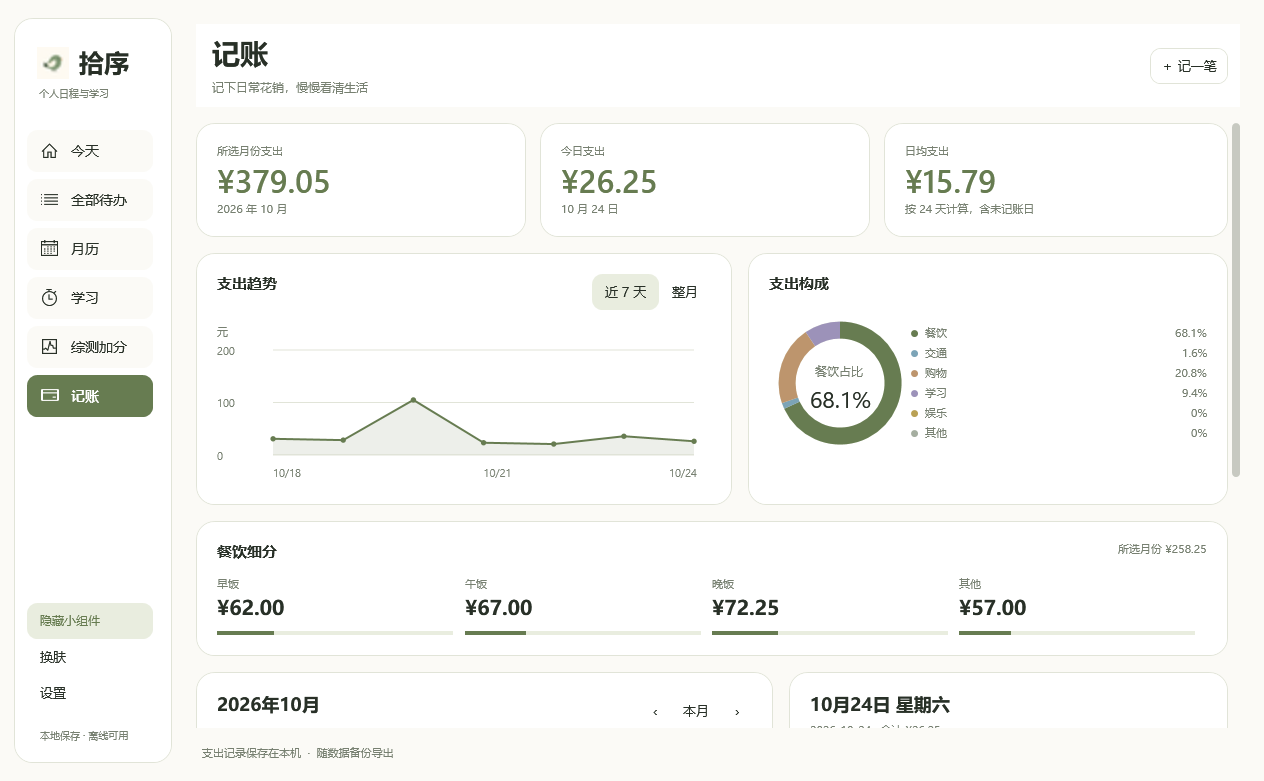
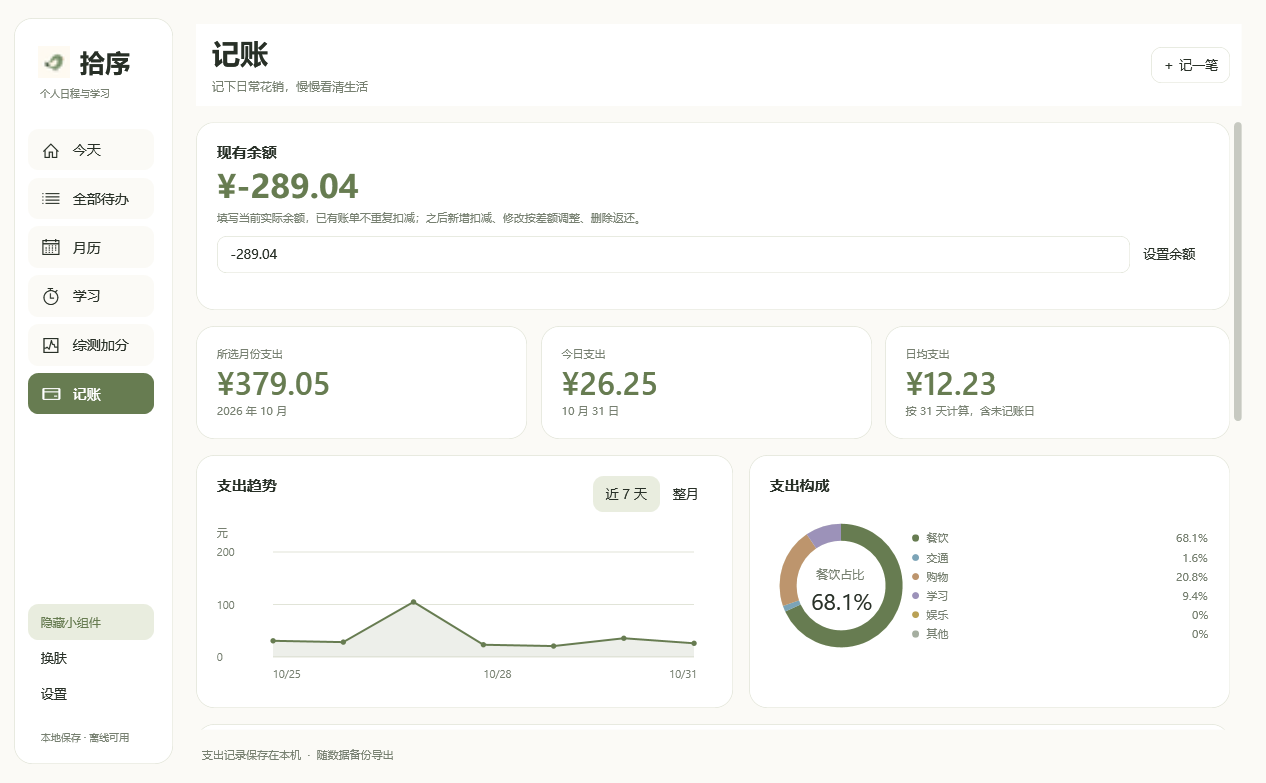
feat: add current balance with automatic expense deductions

diff --git a/src/CoreTests.cs b/src/CoreTests.cs
@@ -16,6 +16,7 @@ class CoreTests
         Directory.CreateDirectory(root);
         try
         {
+            Check(typeof(TodoState).GetField("ExpenseBalanceBase") != null, "state persists balance baseline");
             Check(typeof(TodoState).GetField("Expenses") != null, "state exposes independent expense records");
             Check(typeof(ExpenseRecord).GetField("Meal") != null, "expenses support meal subtype");
             Check(typeof(CreditRecord).Assembly.GetType("DeskTodo.CreditSummary") != null, "credits expose calendar and accumulation summary");
@@ -59,13 +60,21 @@ class CoreTests
                 using (var mealMoved = mealStore.MoveTo(Path.Combine(root, "meal-moved"))) Check(mealMoved.State.Expenses[0].Meal == "午饭", "meal subtype preserved by migration");
                 string savedMeal = File.ReadAllText(Path.Combine(mealStore.DirectoryPath, "tasks.json")); Throws(() => mealStore.ChangeState(state => state.Expenses[0].Meal = "bad"), "invalid meal transaction fails");
                 Check(mealStore.State.Expenses[0].Meal == "午饭" && File.ReadAllText(Path.Combine(mealStore.DirectoryPath, "tasks.json")) == savedMeal, "invalid meal transaction preserves memory and disk");
-                string legacyMeal = Path.Combine(root, "legacy-meal.json"); File.WriteAllText(legacyMeal, savedMeal.Replace("\"Version\":10", "\"Version\":9").Replace(",\"Meal\":\"午饭\"", ""));
+                string legacyMeal = Path.Combine(root, "legacy-meal.json"); File.WriteAllText(legacyMeal, savedMeal.Replace("\"Version\":11", "\"Version\":9").Replace(",\"Meal\":\"午饭\"", ""));
                 var legacyMealState = DataStore.ReadState(legacyMeal); Check(legacyMealState.Version == 9 && legacyMealState.Expenses[0].Meal == null && ExpenseSummary.Create(legacyMealState.Expenses, new DateTime(2024, 2, 1), DateTime.Today).ByMeal["其他"] == 18.6m, "v9 dining remains other without guessing");
             }
             var expenses = new TodoState();
             expenses.Expenses.Add(new ExpenseRecord { Id = Guid.NewGuid().ToString("N"), Date = "2026-10-24", Amount = 0.1m, Category = "餐饮", Note = "示例" });
             expenses.Expenses.Add(new ExpenseRecord { Id = Guid.NewGuid().ToString("N"), Date = "2026-10-24", Amount = 0.2m, Category = "其他" });
             expenses.Validate(); Check(expenses.Expenses.Sum(e => e.Amount) == 0.3m, "expense decimal totals exact");
+            Check(!expenses.ExpenseBalance.HasValue, "legacy balance stays unset");
+            expenses.SetExpenseBalance(100m); Check(expenses.ExpenseBalance == 100m, "setting current balance does not deduct old expenses");
+            var balanceCopy = expenses.Copy(); balanceCopy.Expenses[0].Amount = 1.1m; Check(balanceCopy.ExpenseBalance == 99m, "editing expense adjusts balance by difference");
+            balanceCopy.Expenses.RemoveAt(0); Check(balanceCopy.ExpenseBalance == 100.1m, "deleting expense refunds balance");
+            balanceCopy.SetExpenseBalance(0m); balanceCopy.Expenses[0].Amount = 1.2m; Check(balanceCopy.ExpenseBalance == -1m, "overspending permits negative balance");
+            Throws(() => expenses.SetExpenseBalance(.001m), "balance rejects fractions of cents");
+            Throws(() => expenses.SetExpenseBalance(1000000000000m), "balance rejects out of range");
+            Check(expenses.Copy().ExpenseBalance == 100m, "copy preserves balance baseline");
             var expenseCopy = expenses.Copy(); expenseCopy.Expenses[0].Note = "副本";
             Check(expenses.Expenses[0].Note == "示例", "expense snapshots deep copied");
             foreach (decimal invalid in new[] { 0m, -1m, .001m, 100000000m }) { expenseCopy.Expenses[0].Amount = invalid; Throws(() => expenseCopy.Validate(), "invalid expense amount rejected " + invalid); }
@@ -82,7 +91,7 @@ class CoreTests
             Check(DataStore.ReadState(legacyExpenses).Expenses.Count == 0, "v8 defaults to empty expense list");
             using (var expenseStore = DataStore.Open(Path.Combine(root, "expenses")))
             {
-                expenseStore.ChangeState(state => state.Expenses = expenses.Expenses.Select(e => e.Copy()).ToList());
+                expenseStore.ChangeState(state => { state.Expenses = expenses.Expenses.Select(e => e.Copy()).ToList(); state.SetExpenseBalance(100m); });
                 expenseStore.Change(items => items.Add(Item("普通待办", null)));
                 Check(expenseStore.State.Expenses.Count == 2, "todo mutation preserves expenses");
                 string saved = File.ReadAllText(Path.Combine(expenseStore.DirectoryPath, "tasks.json"));
@@ -90,7 +99,8 @@ class CoreTests
                 Check(File.ReadAllText(Path.Combine(expenseStore.DirectoryPath, "tasks.json")) == saved && expenseStore.State.Expenses[0].Amount == .1m, "failed expense save preserves memory and disk");
                 string expenseExport = Path.Combine(root, "expenses-export.json"); expenseStore.Export(expenseExport);
                 expenseStore.ChangeState(state => state.Expenses.Clear()); expenseStore.Import(expenseExport);
-                Check(expenseStore.State.Expenses.Count == 2 && expenseStore.State.Version == 10, "expense backup import restores v10 records");
+                Check(expenseStore.State.ExpenseBalance == 100m, "export and import preserve balance");
+                Check(expenseStore.State.Expenses.Count == 2 && expenseStore.State.Version == 11, "expense backup import restores v10 records");
                 using (var expenseMoved = expenseStore.MoveTo(Path.Combine(root, "expenses-moved"))) Check(expenseMoved.State.Expenses.Sum(e => e.Amount) == .3m, "data migration preserves expenses");
             }
             var credits = new TodoState();
@@ -134,7 +144,7 @@ class CoreTests
                 creditStore.Change(items => items.Add(Item("普通待办", null)));
                 string creditExport = Path.Combine(root, "credits-export.json"); creditStore.Export(creditExport);
                 var creditRestored = DataStore.ReadState(creditExport);
-                Check(creditRestored.Version == 10 && creditRestored.Credits.Sum(c => c.Points) == 0.3m && creditRestored.Items.Count == 1, "todo saves and exports preserve credits");
+                Check(creditRestored.Version == 11 && creditRestored.Credits.Sum(c => c.Points) == 0.3m && creditRestored.Items.Count == 1, "todo saves and exports preserve credits");
                 creditStore.ChangeState(state => state.Credits.Clear()); creditStore.Import(creditExport);
                 Check(creditStore.State.Credits.Count == 2, "import replaces and restores credits");
                 Throws(() => creditStore.ChangeState(state => state.Credits[0].Points = -1), "invalid credit save fails atomically");
@@ -305,10 +315,10 @@ class CoreTests
                 timedStore.Import(timedPath);
                 string timedExport = Path.Combine(root, "时间地点备份.json"); timedStore.Export(timedExport);
                 var roundtrip = DataStore.ReadState(timedExport);
-                Check(roundtrip.Version == 10 && roundtrip.Items[0].Time == "14:35" && roundtrip.Items[0].Location == "会议室 A", "time location backup roundtrip and new format");
+                Check(roundtrip.Version == 11 && roundtrip.Items[0].Time == "14:35" && roundtrip.Items[0].Location == "会议室 A", "time location backup roundtrip and new format");
                 JsonFile.Write(timedPath, legacyState);
                 timedStore.Import(timedPath);
-                Check(DataStore.ReadState(Path.Combine(timedStore.DirectoryPath, "tasks.json")).Version == 10, "saving legacy data upgrades format without losing records");
+                Check(DataStore.ReadState(Path.Combine(timedStore.DirectoryPath, "tasks.json")).Version == 11, "saving legacy data upgrades format without losing records");
             }
             Check(Dates.GridStart(new DateTime(2026, 10, 1)) == new DateTime(2026, 9, 28), "October Monday-first grid");
             Check(Dates.GridStart(new DateTime(2027, 1, 1)) == new DateTime(2026, 12, 28), "calendar crosses year");

diff --git a/src/Core.cs b/src/Core.cs
@@ -51,7 +51,14 @@ namespace DeskTodo
     [DataContract]
     public class TodoState
     {
-        [DataMember(IsRequired = true)] public int Version = 10;
+        [DataMember(IsRequired = true)] public int Version = 11;
+        [DataMember(EmitDefaultValue = false)] public decimal? ExpenseBalanceBase;
+        public decimal? ExpenseBalance { get { return ExpenseBalanceBase.HasValue ? ExpenseBalanceBase.Value - Expenses.Sum(e => e.Amount) : (decimal?)null; } }
+        public void SetExpenseBalance(decimal amount)
+        {
+            if (Math.Abs(amount) > 999999999999.99m || Decimal.Round(amount, 2) != amount) throw new InvalidDataException("余额最多两位小数，绝对值不能超过999999999999.99元。");
+            ExpenseBalanceBase = amount + Expenses.Sum(e => e.Amount);
+        }
         [DataMember] public List<ExpenseRecord> Expenses = new List<ExpenseRecord>();
         [DataMember] public List<CreditRecord> Credits = new List<CreditRecord>();
         [DataMember] public int DailyGoalMinutes;
@@ -60,11 +67,12 @@ namespace DeskTodo
         [DataMember] public List<FocusSession> FocusHistory = new List<FocusSession>();
         [DataMember(EmitDefaultValue = false)] public FocusSession ActiveFocus;
         [OnDeserializing] void Defaults(StreamingContext c) { Series = new List<RepeatSeries>(); FocusHistory = new List<FocusSession>(); Credits = new List<CreditRecord>(); Expenses = new List<ExpenseRecord>(); }
-        public TodoState Copy() { return new TodoState { Expenses = Expenses.Select(e => e.Copy()).ToList(), Credits = Credits.Select(c => c.Copy()).ToList(), DailyGoalMinutes = DailyGoalMinutes, Items = Items.Select(i => i.Copy()).ToList(), Series = Series.Select(s => s.Copy()).ToList(), FocusHistory = FocusHistory.Select(f => f.Copy()).ToList(), ActiveFocus = ActiveFocus == null ? null : ActiveFocus.Copy() }; }
+        public TodoState Copy() { return new TodoState { ExpenseBalanceBase = ExpenseBalanceBase, Expenses = Expenses.Select(e => e.Copy()).ToList(), Credits = Credits.Select(c => c.Copy()).ToList(), DailyGoalMinutes = DailyGoalMinutes, Items = Items.Select(i => i.Copy()).ToList(), Series = Series.Select(s => s.Copy()).ToList(), FocusHistory = FocusHistory.Select(f => f.Copy()).ToList(), ActiveFocus = ActiveFocus == null ? null : ActiveFocus.Copy() }; }
         public void Validate()
         {
-            if (Version < 1 || Version > 10) throw new InvalidDataException("不支持这个数据版本，请使用对应版本的软件。");
+            if (Version < 1 || Version > 11) throw new InvalidDataException("不支持这个数据版本，请使用对应版本的软件。");
             if (Expenses == null || Expenses.Count > 10000) throw new InvalidDataException("记账记录无效或超过 10000 笔。");
+            if (ExpenseBalanceBase.HasValue && (ExpenseBalanceBase.Value < -999999999999.99m || ExpenseBalanceBase.Value > 1999999999999.99m || Decimal.Round(ExpenseBalanceBase.Value, 2) != ExpenseBalanceBase.Value)) throw new InvalidDataException("余额数据无效。");
             var expenseIds = new HashSet<string>();
             foreach (var expense in Expenses) { if (expense == null || !expenseIds.Add(expense.Id)) throw new InvalidDataException("记账记录重复或无效。"); expense.Validate(); }
             if (Credits == null || Credits.Count > 10000) throw new InvalidDataException("综测记录无效或超过 10000 条。");
@@ -512,7 +520,7 @@ namespace DeskTodo
         void Commit(TodoState next)
         {
             if (lease == null) throw new ObjectDisposedException("DataStore");
-            next.Validate(); next.Version = 10; JsonFile.Write(FilePath, next); State = next;
+            next.Validate(); next.Version = 11; JsonFile.Write(FilePath, next); State = next;
         }
         public void Change(Action<List<TodoItem>> edit) { var next = State.Copy(); edit(next.Items); Commit(next); }
         public void ChangeState(Action<TodoState> edit) { var next = State.Copy(); edit(next); Commit(next); }

diff --git a/src/Expenses.cs b/src/Expenses.cs
@@ -82,6 +82,20 @@ namespace DeskTodo
         public void Refresh()
         {
             root.Children.Clear(); var all = app.Store.State.Expenses; var summary = ExpenseSummary.Create(all, month, DateTime.Today);
+            var balance = new StackPanel(); balance.Children.Add(Ui.Text("现有余额", 15, "Text", true));
+            var balanceValue = Ui.Text(app.Store.State.ExpenseBalance.HasValue ? Money(app.Store.State.ExpenseBalance.Value) : "尚未设置", 32, "Accent", true);
+            AutomationProperties.SetName(balanceValue, "现有余额"); balanceValue.ToolTip = balanceValue.Text;
+            balance.Children.Add(new Viewbox { Child = balanceValue, Height = 48, Stretch = Stretch.Uniform, StretchDirection = StretchDirection.DownOnly, HorizontalAlignment = HorizontalAlignment.Left });
+            balance.Children.Add(Hint("填写当前实际余额，已有账单不重复扣减；之后新增扣减、修改按差额调整、删除返还。"));
+            var balanceForm = new DockPanel { Margin = new Thickness(0, 12, 0, 0) };
+            var balanceInput = new TextBox { Text = app.Store.State.ExpenseBalance.HasValue ? app.Store.State.ExpenseBalance.Value.ToString("0.00", CultureInfo.InvariantCulture) : "", MaxLength = 20, MinWidth = 120, ToolTip = "输入当前实际余额（元），可输入负数" };
+            AutomationProperties.SetName(balanceInput, "设置现有余额（元）");
+            var balanceError = Ui.Text("", 12, "Danger");
+            var balanceSave = Ui.Button("设置余额", () => {
+                decimal value;
+                if (!System.Text.RegularExpressions.Regex.IsMatch(balanceInput.Text.Trim(), @"\A-?[0-9]{1,12}(\.[0-9]{1,2})?\z") || !Decimal.TryParse(balanceInput.Text.Trim(), NumberStyles.AllowLeadingSign | NumberStyles.AllowDecimalPoint, CultureInfo.InvariantCulture, out value)) { balanceError.Text = "请输入有效余额，最多两位小数。"; return; }
+                app.SetExpenseBalance(value);
+            }, "Quiet"); DockPanel.SetDock(balanceSave, Dock.Right); balanceForm.Children.Add(balanceSave); balanceForm.Children.Add(balanceInput); balance.Children.Add(balanceForm); balance.Children.Add(balanceError); root.Children.Add(Card(balance));
             var overview = new UniformGrid { Columns = 3 };
             var current = Metric("所选月份支出", summary.Total, month.ToString("yyyy 年 M 月")); current.Margin = new Thickness(0, 0, 14, 16); overview.Children.Add(current);
             var today = Metric("今日支出", all.Where(r => r.Date == Dates.Key(DateTime.Today)).Sum(r => r.Amount), DateTime.Today.ToString("M 月 d 日")); today.Margin = new Thickness(0, 0, 14, 16); overview.Children.Add(today);

diff --git a/src/UiSmoke.cs b/src/UiSmoke.cs
@@ -327,6 +327,12 @@ namespace DeskTodo
             {
                 app.Main.SelectPage("记账"); app.Main.UpdateLayout();
                 Check(Controls<TextBlock>(app.Main).Any(t => t.Text == "这个月还没有支出记录"), "expense empty state");
+                Check(Controls<TextBlock>(app.Main).Any(t => t.Text == "尚未设置"), "balance starts unset");
+                var balanceInput = Controls<TextBox>(app.Main).First(t => AutomationProperties.GetName(t) == "设置现有余额（元）");
+                balanceInput.Text = "1.001"; Controls<Button>(app.Main).First(b => (b.Content as string) == "设置余额").RaiseEvent(new RoutedEventArgs(Button.ClickEvent));
+                Check(!app.Store.State.ExpenseBalance.HasValue, "invalid balance leaves data unset");
+                balanceInput.Text = "100.00"; Controls<Button>(app.Main).First(b => (b.Content as string) == "设置余额").RaiseEvent(new RoutedEventArgs(Button.ClickEvent)); app.Main.UpdateLayout();
+                Check(app.Store.State.ExpenseBalance == 100m && Controls<TextBlock>(app.Main).Any(t => t.Text == "¥100.00"), "balance button persists and renders amount");
                 Action<bool, bool> edit = (existing, save) =>
                 {
                     Exception failure = null;
@@ -448,6 +454,9 @@ namespace DeskTodo
                 var smallPanel = Controls<ExpensePanel>(app.Main).First(); smallPanel.ScrollToEnd(); app.Main.UpdateLayout(); Capture(app.Main, Path.Combine(root, "expense-calendar-small.png")); Check(smallPanel.ScrollableHeight > 0, "minimum window scrolls to calendar and details");
                 Controls<Button>(app.Main).First(b => (b.Content as string) == "删除").RaiseEvent(new RoutedEventArgs(Button.ClickEvent));
                 Check(app.Store.State.Expenses.Count == beforeDelete - 1 && !app.Store.State.Expenses.Any(e => e.Note == "示例：地铁"), "delete selected expense");
+                Check(app.Store.State.ExpenseBalance == 100m - app.Store.State.Expenses.Sum(e => e.Amount), "balance follows add edit and delete transactions");
+                Check(DataStore.ReadState(Path.Combine(app.Store.DirectoryPath, "tasks.json")).ExpenseBalance == app.Store.State.ExpenseBalance, "balance persists with expenses");
+                Capture(app.Main, Path.Combine(root, "expense-balance.png"));
                 string savedId = app.Store.State.Expenses[0].Id;
                 app.Main.SelectPage("月历"); app.Main.UpdateLayout(); Check(app.Main.CalendarCellCount >= 28, "calendar still renders");
                 Check(DataStore.ReadState(Path.Combine(app.Store.DirectoryPath, "tasks.json")).Expenses.Any(e => e.Id == savedId), "expense persists on disk");

diff --git a/src/App.cs b/src/App.cs
@@ -16,7 +16,7 @@ using Forms = System.Windows.Forms;
 
 [assembly: AssemblyTitle("拾序")]
 [assembly: AssemblyProduct("拾序 · 桌面待办")]
-[assembly: AssemblyVersion("2.9.1.0")]
+[assembly: AssemblyVersion("2.10.0.0")]
 
 namespace DeskTodo
 {
@@ -206,6 +206,11 @@ namespace DeskTodo
         public void EditExpense(ExpenseRecord record, DateTime? initialDate = null)
         {
             new ExpenseWindow(this, record, initialDate) { Owner = Main, WindowStartupLocation = WindowStartupLocation.CenterOwner }.ShowDialog();
+        }
+        public bool SetExpenseBalance(decimal amount)
+        {
+            try { Store.ChangeState(state => state.SetExpenseBalance(amount)); Refresh(); return true; }
+            catch (Exception ex) { if (TestMode) throw; Error("余额保存失败", ex); return false; }
         }
         public bool SaveExpense(ExpenseRecord record, bool existing)
         {
@@ -445,7 +450,7 @@ namespace DeskTodo
         }
         public void Import(string path)
         {
-            try { if (Store.State.ActiveFocus != null) throw new InvalidOperationException("请先结束当前学习，再导入备份。"); var imported = DataStore.ReadState(path); Schedule.Expand(imported, DateTime.Today.AddDays(62)); Store.ChangeState(state => { state.Expenses = imported.Expenses; state.Credits = imported.Credits; state.DailyGoalMinutes = imported.DailyGoalMinutes; state.Items = imported.Items; state.Series = imported.Series; state.FocusHistory = imported.FocusHistory; state.ActiveFocus = imported.ActiveFocus; }); deleted = null; Refresh(); }
+            try { if (Store.State.ActiveFocus != null) throw new InvalidOperationException("请先结束当前学习，再导入备份。"); var imported = DataStore.ReadState(path); Schedule.Expand(imported, DateTime.Today.AddDays(62)); Store.ChangeState(state => { state.ExpenseBalanceBase = imported.ExpenseBalanceBase; state.Expenses = imported.Expenses; state.Credits = imported.Credits; state.DailyGoalMinutes = imported.DailyGoalMinutes; state.Items = imported.Items; state.Series = imported.Series; state.FocusHistory = imported.FocusHistory; state.ActiveFocus = imported.ActiveFocus; }); deleted = null; Refresh(); }
             catch (Exception ex) { Error("导入失败", ex); }
         }
         public void Exit()

diff --git a/docs/开发交接.md b/docs/开发交接.md
@@ -1,13 +1,15 @@
 # 拾序开发交接
 
-更新时间：2026-10-26。本文整理长期状态供新对话接手；具体版本和实现以当前源码、README 与 Git 为准。
+v2.10.0：TodoState.ExpenseBalanceBase 保存余额基准；当前余额=基准减全部账单总额，设置时基准=输入余额加现有总额。Copy和控制器Import均保留该字段。记账页顶部新增现有余额，首次填写当前实际金额，已有账单不重复扣款。之后新增支出自动扣减，修改按差额调整，删除返还；支持负余额和再次校正。余额随备份、导入替换及迁移保留。数据格式升级v11，兼容读取v1-v10，v2.9.1及更早版本不能读取v11，回退请使用升级前备份。193项核心及61项记账界面检查通过，未重跑其他界面专项或多DPI。
+
+更新时间：2026-10-31。本文整理长期状态供新对话接手；具体版本和实现以当前源码、README 与 Git 为准。
 
 ## 当前交付
 
-- 当前应用为 **v2.9.1**，程序集版本 `2.9.1.0`。
-- 数据格式为 **v10**，兼容读取旧格式；v2.7.0 及更早的软件不能读取 v10，回退时要使用对应旧备份。
+- 当前应用为 **v2.10.0**，程序集版本 `2.10.0.0`。
+- 数据格式为 **v11**，兼容读取旧格式；v2.9.1 及更早的软件不能读取 v11，回退时要使用对应旧备份。
 - 仓库公开：<https://github.com/XiongWen04/shixu>。
-- 应用 Release：<https://github.com/XiongWen04/shixu/releases/tag/v2.9.1>。
+- 应用 Release：<https://github.com/XiongWen04/shixu/releases/tag/v2.10.0>。
 - v2.2.3 将图标更换为用户选定的 B 版绿色小鸟，纸页造型翅膀，保留米白底原稿（透明抠图出现鸟身透底，未采用）。`src/AppLogo.png` 为源图，`src/App.ico` 包含 16–256 像素的十种尺寸，沿用程序、窗口和托盘的现有资源入口；功能和数据格式不变。
 
 v2.9.1 综测页补齐「全部记录 / 返回月历」切换：`CreditPanel.ShowingAllRecords` 保留视图状态，全部记录直接读取所有月份，日期倒序、同日后录入在前，显示名称/日期/来源/完整分数/修改删除。修改删除刷新后保持列表视图，返回月历保留原选日；列表中新增默认今天。仅改页面和入口，Core与数据格式v10不变。

diff --git a/README.md b/README.md
@@ -1,5 +1,7 @@
 # 拾序 Shixu · Windows 待办清单、番茄钟与学习计时
 
+v2.10.0：记账页顶部新增现有余额，首次填写当前实际金额，已有账单不重复扣款。之后新增支出自动扣减，修改按差额调整，删除返还；支持负余额和再次校正。余额随备份、导入替换及迁移保留。数据格式升级v11，兼容读取v1-v10，v2.9.1及更早版本不能读取v11，回退请使用升级前备份。193项核心及61项记账界面检查通过，未重跑其他界面专项或多DPI。
+
 <img src="src/AppLogo.png" alt="拾序的绿色小鸟图标" width="80">
 
 **面向大学生、研究生的 Windows 桌面日程与学习工具。** 用月历安排课程、组会和截止日期，用番茄钟或正向计时记录学习，再把参加过的活动与综测加分整理到同一个地方。
@@ -10,7 +12,7 @@
 
 基于 C# / WPF / .NET Framework 4.8，Windows x64 原生运行，无第三方运行依赖。
 
-**当前版本：v2.9.1 · Windows x64**
+**当前版本：v2.10.0 · Windows x64**
 
 [下载便携版](https://github.com/XiongWen04/shixu/releases/latest) · [使用说明](docs/使用说明.md) · [版本记录](https://github.com/XiongWen04/shixu/releases)
 
@@ -20,7 +22,7 @@
 
 推荐 Windows 11 64 位；Windows 10 64 位需已安装 .NET Framework 4.8。
 
-1. [下载 v2.9.1 便携包](https://github.com/XiongWen04/shixu/releases/download/v2.9.1/Shixu-v2.9.1-win-x64-portable.zip)，解压到有写入权限的文件夹。
+1. [下载 v2.10.0 便携包](https://github.com/XiongWen04/shixu/releases/download/v2.10.0/Shixu-v2.10.0-win-x64-portable.zip)，解压到有写入权限的文件夹。
 2. 运行 `拾序.exe`，保留旁边的 `拾序.exe.config`。
 3. 打开“月历”选择日期，点击右侧“添加待办”；也可以在“全部待办”右上角添加，或按 `Ctrl+N`。
 4. 需要学习时，打开“学习”，选择倒计时或正向计时，填写名称后开始。
